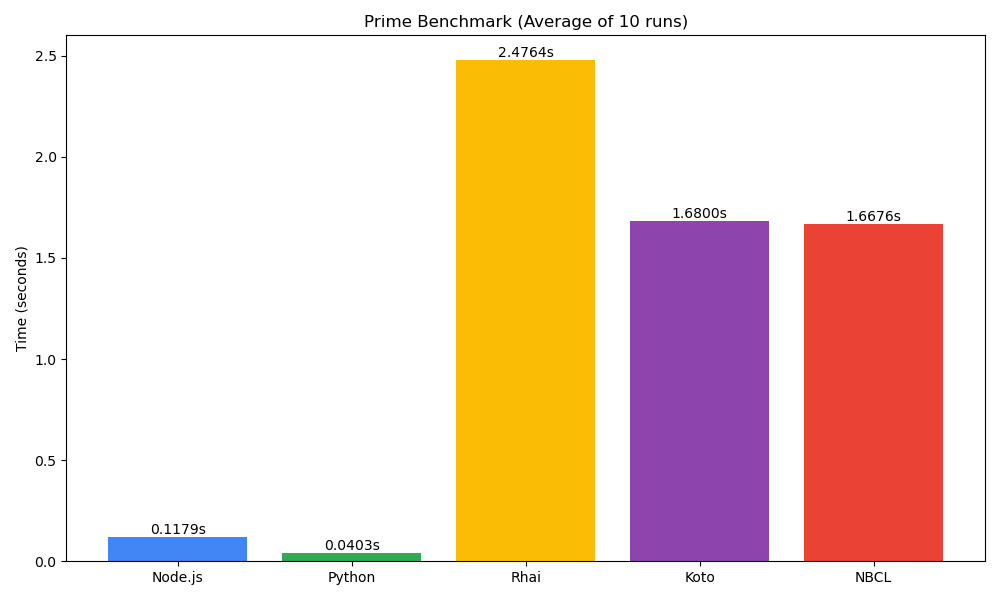
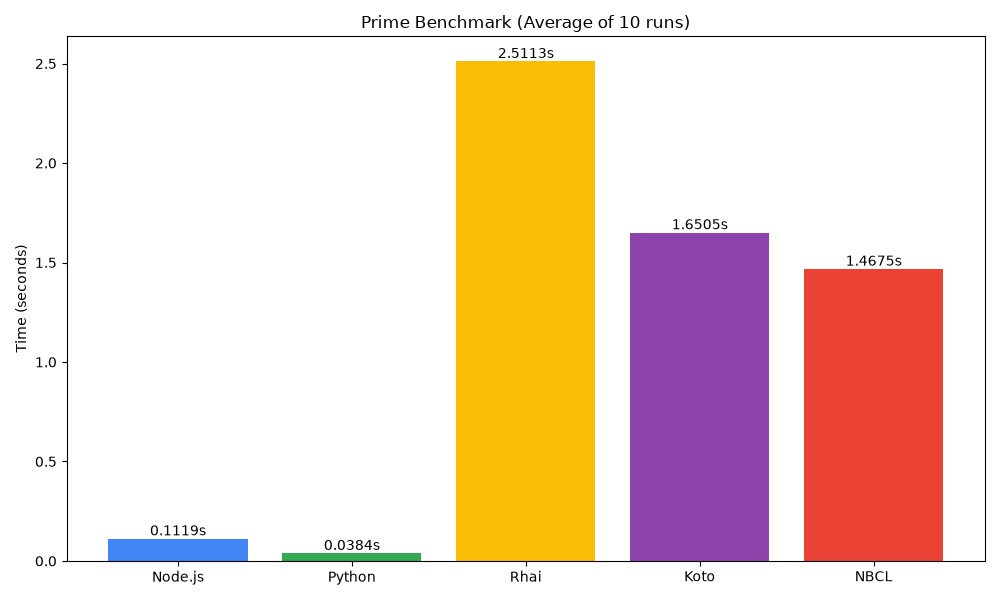
chore: conduct new tests on nbcl 0.7.0

diff --git a/bench.py b/bench.py
@@ -49,7 +49,7 @@ def run_suite(task_name, file_base):
         "Python": ["python3", "-m", "py_compile", f"{file_base}.py"] if is_parse_test else ["python3", f"{file_base}.py"],
         "Rhai": [NBCL_BIN, "--lang", "rhai", f"{file_base}.rhai"] + extra_flags,
         "Koto": [NBCL_BIN, "--lang", "koto", f"{file_base}.koto"] + extra_flags,
-        "NBCL": [NBCL_BIN, "--lang", "nbcl", f"{file_base}.nbl"] + extra_flags
+        "NBCL": [NBCL_BIN, "--lang", "nbcl", f"{file_base}.nbcl"] + extra_flags
     }
 
     results = {}
